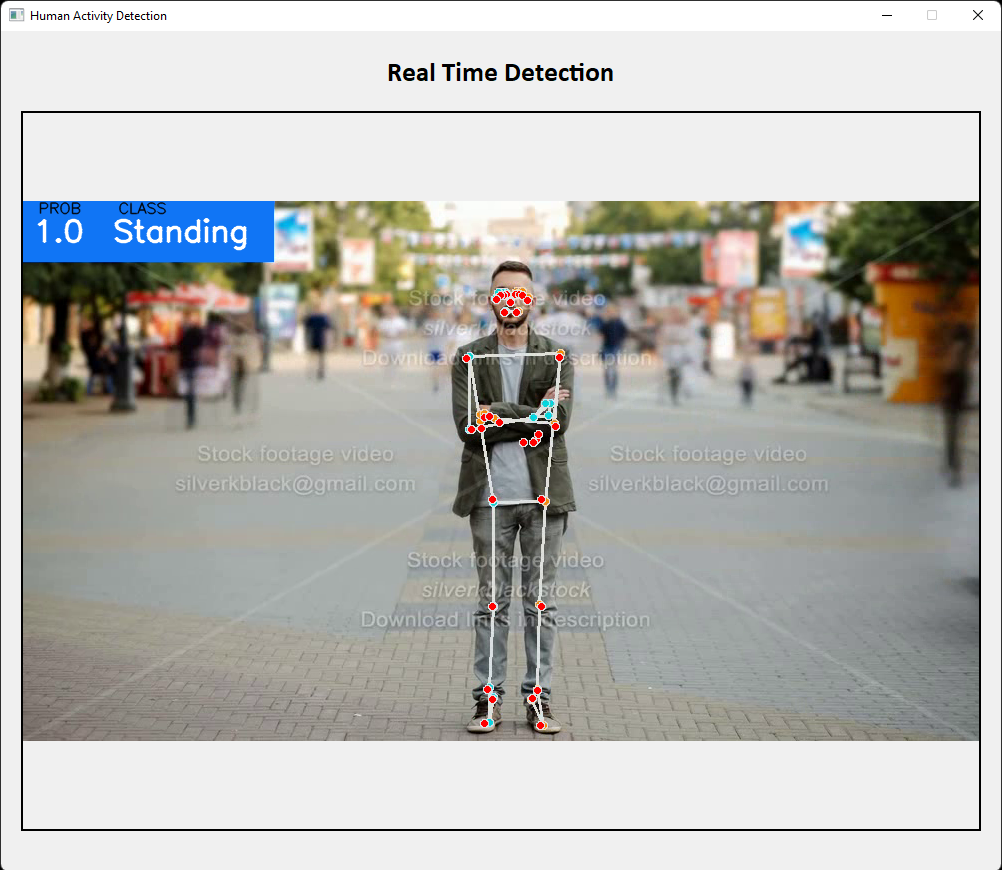
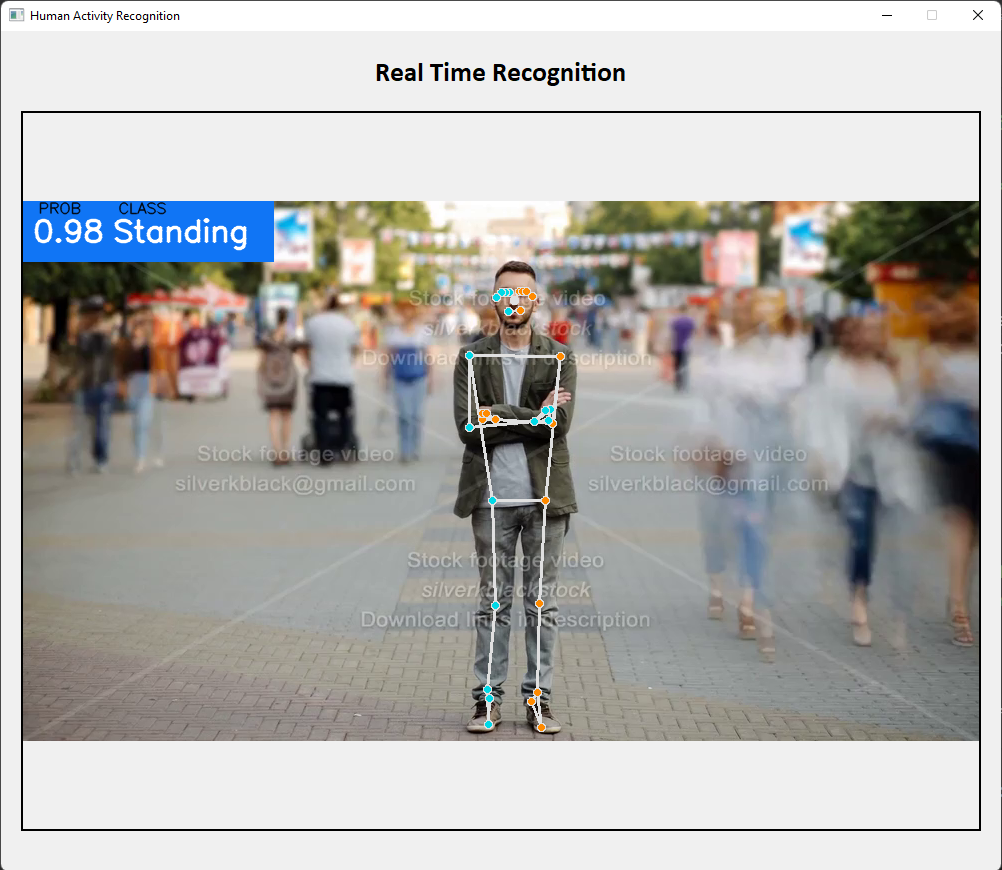
Update #3

diff --git a/GUI.py b/GUI.py
@@ -54,7 +54,8 @@ class VideoThread(QThread):
             results = pose.process(image)
 
             mp_drawing.draw_landmarks(
-                image, results.pose_landmarks)
+                image, results.pose_landmarks, mp_pose.POSE_CONNECTIONS, 
+                landmark_drawing_spec=mp_drawing_styles.get_default_pose_landmarks_style())
 
             end = time.time()
             totalTime = end - start
